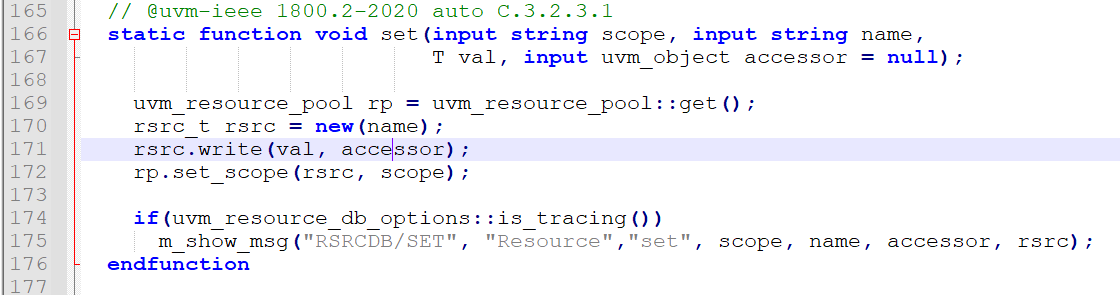
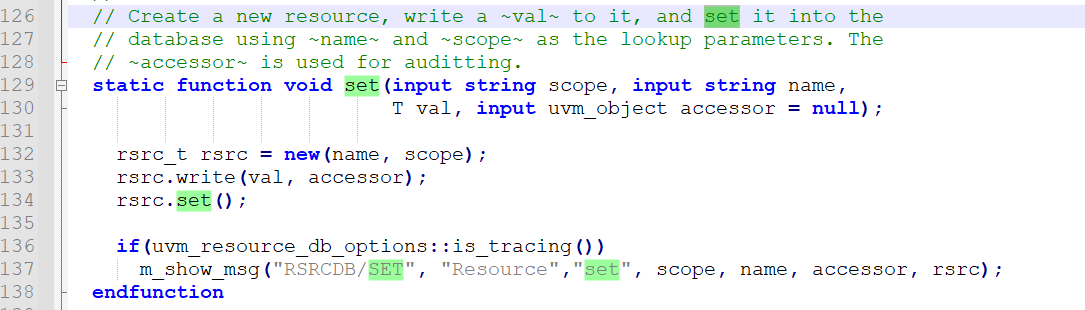
Site updated: 2022-07-06 10:07:29

Changed region(s): [[0.0, 0.0, 0.9733, 1.0]]

diff --git a/2022/05/05/config-db机制/index.html b/2022/05/05/config-db机制/index.html
@@ -28,8 +28,10 @@
 <meta property="og:locale" content="zh_CN">
 <meta property="og:image" content="http://www.wzlic.xyz/2022/05/05/config-db%E6%9C%BA%E5%88%B6/config_db001.png">
 <meta property="og:image" content="http://www.wzlic.xyz/2022/05/05/config-db%E6%9C%BA%E5%88%B6/config_db002.png">
+<meta property="og:image" content="http://www.wzlic.xyz/2022/05/05/config-db%E6%9C%BA%E5%88%B6/config_db003.png">
+<meta property="og:image" content="http://www.wzlic.xyz/2022/05/05/config-db%E6%9C%BA%E5%88%B6/config_db004.png">
 <meta property="article:published_time" content="2022-05-05T13:03:12.000Z">
-<meta property="article:modified_time" content="2022-07-05T11:35:13.896Z">
+<meta property="article:modified_time" content="2022-07-06T02:07:15.639Z">
 <meta property="article:author" content="shymakers">
 <meta property="article:tag" content="config_db机制">
 <meta name="twitter:card" content="summary">
@@ -246,9 +248,11 @@
 <p>那么怎么理解这两个联合数组呢？rtab中不同的queue中存放的uvm_resource_base的名字是不一样的，同一queue中存放的名字是一样的，这个名字就是queue的索引。<br>ttab中不同queue存放的uvm_resource_base的类型是不一样的，这里的类型主要体现在由其派生而来的uvm_resource#(type T)中的T是不一样的。<br>同一queue中存放的类型是一样的。在rtab中，对于同一个名字，其queue里面存放的东西可能是不同类型的，因为不同类型的资源都可以叫同一名字，<br>都会被放入rtab中的同一条记录的队列中。同样的，ttab中同一条记录对应的queue里存放的东西可能并不都是同一名字。</p>
 <p><label style="color:red">6.资源的存取：</label><br>前面已知，资源的存取通过uvm_resource_db类来实现，此类中全是静态成员，实例化不重要了就，不派生于其他类，其中的set函数负责向uvm_resource_ pool中写入资源：</p>
 <img src="/2022/05/05/config-db%E6%9C%BA%E5%88%B6/config_db002.png" class="" title="config_db002">
-
-
-
+<p>参数很容易明白即：路径，名字，值，最后一个参数后面再看。132行rsrc_t其原型：类：uvm_resource_db  #(type  T&#x3D;uvm_object) typedef  uvm_resource #(T)rsrc_t;<br>133行则将val写到rsrc,134行将rsrc写到全局的uvm_resource_pool中。<br>下面看一下uvm_resource#(T)的new函数：<br>代码里可看到仅仅调用了super.new(name);即uvm_resource_base的new函数：</p>
+<img src="/2022/05/05/config-db%E6%9C%BA%E5%88%B6/config_db003.png" class="" title="config_db003">
+<p>假如以下代码：uvm_resource_db#(int)::set(“a.b.c”,  “blk_num”,  8);我们看一下底层是怎么个流程；<br>首先是set_scope函数，传入的参数是”a.b.c”</p>
+<img src="/2022/05/05/config-db%E6%9C%BA%E5%88%B6/config_db004.png" class="" title="config_db004">
+<p>只是调用了uvm_glob_to_re。uvm_glob_to_re是一个字符串处理函数，它把输入的字符串转换成正则表达式的形式。这里用到了DPI调用，使用C函数来完成转换。<br>如对于上面的a.b.c，经过转换后就变成了&#x2F;a.b.c&#x2F;，即在前后各加了一个代表正则表达式的斜线，同时把.使用反斜丝转义。在”a.b.c”的表述中，”.”只是起分隔作用，<br>这种用法是glob，但是在正则表达式中，”.”则是元字符，有特殊含义，关于这一点，可以看正则表达式的相关书籍。因此，为了在正则表达式中表述”.”的本来意思，<br>那么就需要使用反斜线来进行转义。除了”.”号外，这个函数还会对”*”号，”+”号，”[“号，”]”号等属于glob的字符替换成正则表达式的字符。</p>
 
     </div>
 
